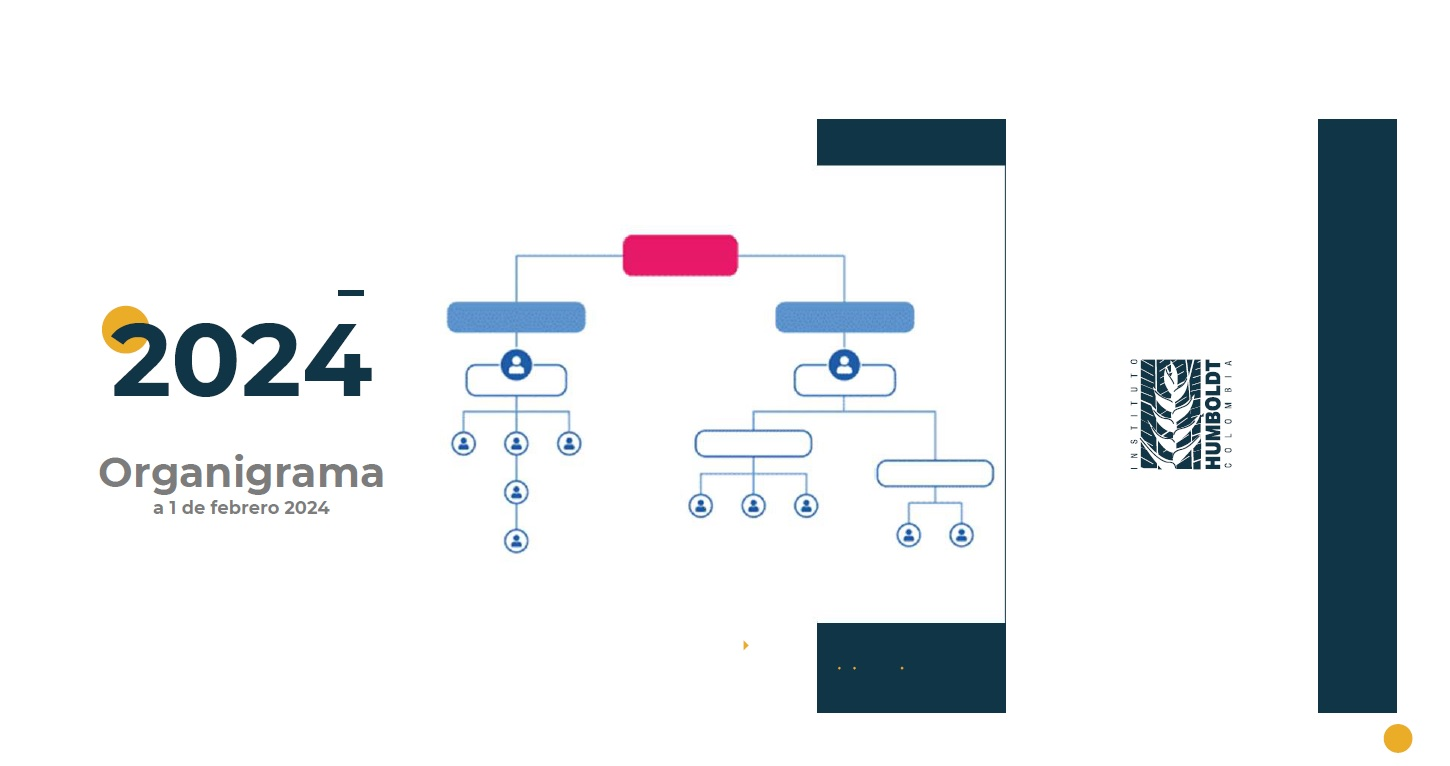
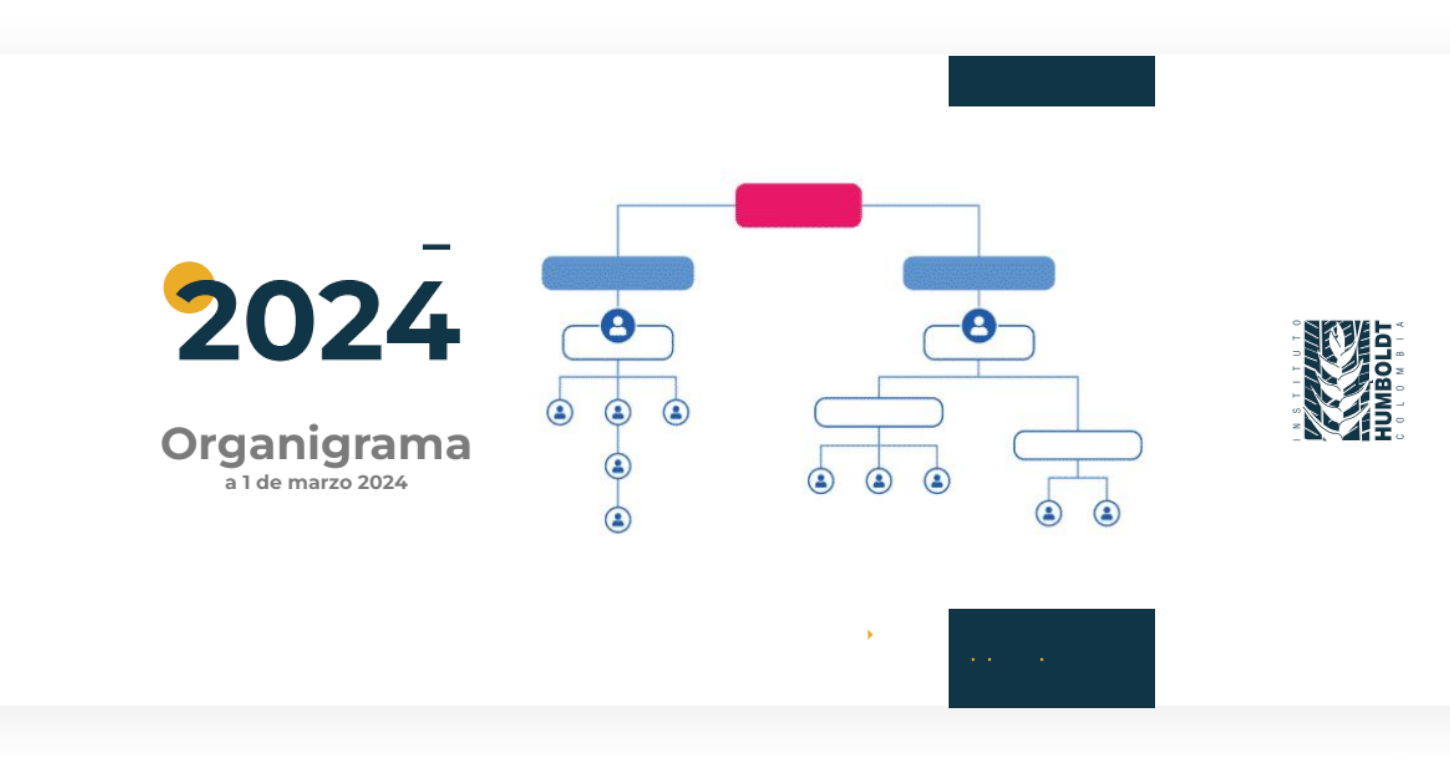
Cambio
Organigrama e imagen

diff --git a/noticias/estructura.php b/noticias/estructura.php
@@ -189,7 +189,7 @@
         
         <div class="row">
           <div class="col-md-4">
-            <a href="https://drive.google.com/file/d/13Ca9PExmYx83O4K9tIEBBAmRn16YjoLw/view?usp=drive_link" target="_blank" class="img-fluid mx-auto d-block">
+            <a href="https://drive.google.com/file/d/1NfaGy4IjBF1hOSmkE8PCBtUTTUa5-SEW/view?usp=drive_link" target="_blank" class="img-fluid mx-auto d-block">
               <img src="../img/organigrama.jpg" alt="" class="img-fluid" style="cursor: pointer;">
             </a>            
             <span style="margin-top: 1em;display: block;">Nuevo Organigrama - Marzo 2024</span>
